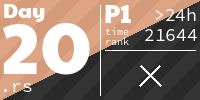
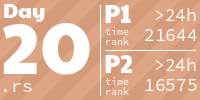
Add day 20

diff --git a/2020/20/20.rs b/2020/20/20.rs
@@ -1,12 +1,15 @@
-use std::{arch::x86_64, collections::{HashMap, HashSet}, io::stdin};
+use std::{collections::{HashMap, HashSet}, io::stdin};
 
 use itertools::Itertools;
+use regex::Regex;
 
 #[derive(Clone, Debug, PartialEq, Eq)]
 struct Tile {
     id: usize,
     rows: Vec<usize>,
 }
+
+
 
 impl Tile {
     fn new(id: usize, lines: Vec<&str>) -> Tile {
@@ -28,7 +31,7 @@ impl Tile {
     fn inner(&self) -> Tile {
         Tile {
             id: self.id,
-            rows: self.rows.iter().skip(1).take(8).map(|n| (n - (n & (1<<10))) >> 2).collect()
+            rows: self.rows.iter().skip(1).take(8).map(|n| (n - (n & (1<<9))) >> 1).collect()
         }
     }
 
@@ -61,6 +64,64 @@ impl Tile {
     fn top_edges(&self) -> HashMap<usize, Tile> {
         self.variations().iter().map(|tile| (tile.top(), tile.clone())).collect()
     }
+}
+
+
+fn solve(corner: &Tile, all_tiles: &Vec<Tile>) -> usize {
+    let size = (0..).find(|i| i*i == all_tiles.len() / 8).unwrap();
+
+    let mut leftmost = corner.clone();
+    let mut used = HashSet::new();
+
+    let mut field: Vec<Vec<char>> = Vec::new();
+
+    for y in 0..size {
+        let mut current = leftmost.clone();
+        if y != 0 {
+            current = all_tiles.iter().filter(|t| !used.contains(&t.id)).find(|tile| tile.top() == leftmost.bot()).unwrap().clone();
+        }
+        leftmost = current.clone();
+        used.insert(current.id);
+        current.inner().rows.iter().for_each(|n| field.push(format!("{n:08b}").chars().collect()));
+        for _ in 1..size {
+            // println!("{:?}", current.right());
+            current = all_tiles.iter().filter(|t| !used.contains(&t.id)).find(|tile| tile.left() == current.right()).unwrap().clone();
+            // println!("{:?}", current.left());
+            used.insert(current.id);
+
+            for (row, num) in current.inner().rows.iter().enumerate() {
+                field.get_mut(y*8+row).unwrap().extend(format!("{num:08b}").chars());
+            }
+        }
+        // field.push("-".repeat(field.get(0).unwrap().len()).chars().collect_vec())
+    }
+    let lines = field.iter().map(|vec| vec.iter().join("")).collect_vec();
+    // lines.iter().map(|v| v.iter().join("")).for_each(|l| println!("{:?}", l));
+                        // "                  # "
+                        // "#    ##    ##    ###"
+                        // " #  #  #  #  #  #   "
+    let dragon1 = Regex::new(r"..................1.").unwrap();
+    let dragon2 = Regex::new(r"1....11....11....111").unwrap();
+    let dragon3 = Regex::new(r".1..1..1..1..1..1...").unwrap();
+    // lines.windows(3).for_each(|w| println!("{:?}", w));
+    let mut dragons = 0;
+    for (a, b, c) in lines.iter().tuple_windows() {
+        for i in 0..a.len() {
+            println!("match {:?}", &a.chars().skip(i).take(20).join(""));
+            if dragon1.is_match(&a.chars().skip(i).take(20).join(""))
+                && dragon2.is_match(&b.chars().skip(i).take(20).join(""))
+                && dragon3.is_match(&c.chars().skip(i).take(20).join("")) {
+                dragons += 15;
+                // println!("match {:?}", &b.iter().skip(i).take(20).join(""));
+                // println!("match {:?}", &c.iter().skip(i).take(20).join(""));
+            }
+        }
+    }
+    // let wins = lines.iter().map(|l| l.chars().collect_vec().windows(20).map(|w| w.iter().join("")).collect_vec()).collect_vec();
+    // for (a, b, c) in wins.iter().tuple_windows() {
+    //     println!("{:?}", a);
+    // }
+    lines.join("").matches("1").count() - dragons
 }
 
 fn main() {
@@ -118,49 +179,10 @@ fn main() {
 
     println!("{:?}", corners.iter().map(|tile| tile.id).unique().reduce(|acc, a| acc * a).unwrap());
 
-    let mut leftmost = *corners.first().unwrap();
-    let size = (0..).find(|i| i*i == tiles.len()).unwrap();
-
-    let mut used = HashSet::new();
-
-    let mut field: Vec<Vec<char>> = Vec::new();
-
-    for y in 0..size {
-        let mut current = leftmost;
-        if y != 0 {
-            current = all_tiles.iter().filter(|t| !used.contains(&t.id)).find(|tile| tile.top() == leftmost.bot()).unwrap();
-        }
-        leftmost = current;
-        used.insert(current.id);
-        current.inner().rows.iter().for_each(|n| field.push(format!("{n:08b}").chars().collect()));
-        for _ in 1..size {
-            println!("{:?}", current.right());
-            current = all_tiles.iter().filter(|t| !used.contains(&t.id)).find(|tile| tile.left() == current.right()).unwrap();
-            println!("{:?}", current.left());
-            used.insert(current.id);
-
-            for (row, num) in current.inner().rows.iter().enumerate() {
-                field.get_mut(y*8+row).unwrap().extend(format!("{num:08b}").chars());
-            }
-        }
-        // field.push("-".repeat(field.get(0).unwrap().len()).chars().collect_vec())
-    }
-    let lines = field.iter().map(|vec| vec.iter().join("")).collect_vec();
-    // lines.iter().map(|v| v.iter().join("")).for_each(|l| println!("{:?}", l));
-    let dragon1 = "00000000000000000010";
-    let dragon2 = "10000110000110000111";
-    let dragon3 = "01001001001001001000";
-    lines.windows(3).for_each(|w| println!("{:?}", w));
-    let mut dragons = 0;
-    for (a, b, c) in lines.windows(3).tuples() {
-        for i in 0..a.len() {
-            if a.iter().skip(i).join("").starts_with(dragon1) 
-                && b.iter().skip(i).join("").starts_with(dragon2)
-                && c.iter().skip(i).join("").starts_with(dragon3) {
-                dragons += 1;
-            }
-        }
-    }
-    println!("{:?}", dragons);
+    println!("{:?}", corners.iter().map(|corner| solve(corner, &all_tiles)).collect_vec());
+    // println!("{:?}", corners.iter().map(|corner| solve(corner, &all_tiles)).sum::<usize>());
+    // 2129 too high
+    // 2005 too low
+    // 1900 too low
     // println!("{:?}", edges.iter().filter(|(_, v)| v.len() == 1).map(|(_, v)| v.iter().next().unwrap()).sorted().collect_vec());
 }

diff --git a/README.md b/README.md
@@ -1,6 +1,6 @@
 <!-- AOC TILES BEGIN -->
 <h1 align="center">
-  Advent of Code - 189/450 ⭐
+  Advent of Code - 190/450 ⭐
 </h1>
 <h1 align="center">
   2023 - 50 ⭐
@@ -237,7 +237,7 @@
   <img src=".aoc_tiles/tiles/2021/25.png" width="161px">
 </a>
 <h1 align="center">
-  2020 - 39 ⭐
+  2020 - 40 ⭐
 </h1>
 <a href="2020/01/01.rs">
   <img src=".aoc_tiles/tiles/2020/01.png" width="161px">
